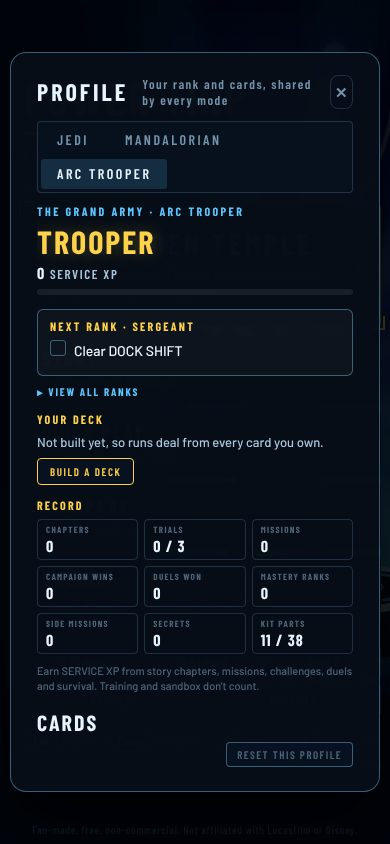
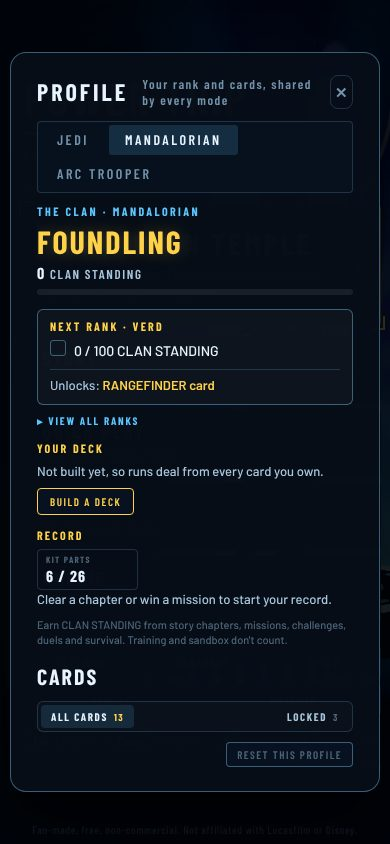
Profile: MY DECK / ALL CARDS / LOCKED filters, a leaner Force Tree, a record that hides its zeros [preview]
CARDS gets a filter row: MY DECK (with empty slots), ALL CARDS (what you own, plus a '+N LOCKED' link per
tier) and LOCKED (with what opens each). Tiers fold shut on a phone. The record shows only what's earned.
The trooper's next rank names the look it unlocks. The Force Tree drops the branch's everyday card list
(it's in CARDS) and keeps only the learnable cards, tier-tagged, with one footnote for the in-run picks.

Claude-Session: https://claude.ai/code/session_01GXE5t2dAsYaBkDm5B8t4Zq

Changed region(s): [[0.0923, 0.3697, 0.8923, 0.8934], [0.0923, 0.1232, 0.6154, 0.3389], [0.7385, 0.8318, 0.8308, 0.8626]]

diff --git a/src/ui/profile-ui.js b/src/ui/profile-ui.js
@@ -27,8 +27,11 @@ const panel = document.getElementById('profile');
 const btn = document.getElementById('pfBtn');
 const esc = (s) => String(s).replace(/[&<>"]/g, (c) => ({ '&': '&amp;', '<': '&lt;', '>': '&gt;', '"': '&quot;' }[c]));
 const HERO_NAME = { jedi: 'JEDI', mando: 'MANDALORIAN', trooper: 'ARC TROOPER' };
-let hero = 'jedi', armed = false, view = 'deck', ladderOpen = false;   // view: the right column's CARDS, or the Jedi's FORCE TREE
+let hero = 'jedi', armed = false, view = 'deck', ladderOpen = false, filter = null, shut = {};   // view: the right column's CARDS, or the Jedi's FORCE TREE
 const SET_OF = { jedi: SKILLS, mando: MANDO_SKILLS, trooper: TROOPER_SKILLS };
+// the trooper's story ranks open looks, not cards (game/wardrobe.js PROMOTIONS, data/ability-cards.js promote-*)
+const LOOK_OF_RANK = { trooper: { sergeant: 'Sergeant green marks', lieutenant: 'Lieutenant blue marks', captain: 'Captain helmet and pauldron',
+  commander: 'Commander yellow marks', arc: 'ARC kit and the ARC TROOPER name' } };
 
 // a chapter's title as this hero's story tells it
 function chapterName(id, h){
@@ -53,6 +56,8 @@ function opens(h, ri){
   const ins = T.insight ? (T.insight[ri] || 0) : 0;
   if (ins > 0) out.push('+' + ins + ' Insight');
   for (const s of RANK_SKILLS[h] || []) if (s.rank === R.id) out.push(esc(s.nm) + ' card');
+  const look = LOOK_OF_RANK[h] && LOOK_OF_RANK[h][R.id];
+  if (look) out.push(esc(look));
   return out.join(' · ');
 }
 function leftCol(h){
@@ -79,40 +84,42 @@ function leftCol(h){
     <span class="pf-link" data-ladder>${ladderOpen ? '▾ HIDE RANKS' : '▸ VIEW ALL RANKS'}</span>
     ${ladderOpen ? `<ol class="pf-ladder">${ladder}</ol>` : ''}
     <div class="pf-sec pf-deckbox"><h4>YOUR DECK</h4>${deckBox}</div>
-    <div class="pf-sec"><h4>RECORD</h4><div class="pf-rec">${rec.map(r => '<div><span>' + r[0] + '</span><b>' + r[1] + '</b></div>').join('')}</div></div>
+    ${recBox(rec)}
     <p class="pf-note pf-how">Earn ${esc(T.unit)} from story chapters, missions, challenges, duels and survival. Training and sandbox don't count.</p>
   </div>`;
 }
 
+// the RECORD shows what's been earned: zeros are hidden, and a new hero gets one line instead of a grid of them
+function recBox(rec){
+  const got = rec.filter(r => !/^0(\b| \/)/.test(String(r[1])));
+  const any = got.some(r => !/PARTS$/.test(r[0]));
+  return '<div class="pf-sec"><h4>RECORD</h4>' + (got.length ? '<div class="pf-rec">' + got.map(r => '<div><span>' + r[0] + '</span><b>' + r[1] + '</b></div>').join('') + '</div>' : '') +
+    (any ? '' : '<p class="pf-note">Clear a chapter or win a mission to start your record.</p>') + '</div>';
+}
+
 /* ---------- the right column, the Jedi's second tab: the Force Tree ---------- */
+// each branch: its line, the cards Insight can learn (with their tier), and one footnote for the in-run either/or picks.
+// The branch's everyday cards are in CARDS, so the tree no longer lists them.
 function treeCol(){
   const path = treePath(), left = insightLeft(), forks = profileOf('jedi').forks;
-  const forkLine = (f) => {
-    const took = forks[f.fork], nm = (id) => id ? ((JEDI_STORE.find(n => n.id === id) || {}).nm || (FORMS[id] ? FORMS[id].name : id)) : '';
-    return '<div class="pf-fork"><span>PICK ONE PER RUN</span><b>' + esc(f.nm) + '</b>' + (took ? '<em>Last run: ' + esc(nm(took)) + '</em>' : '') + '</div>';
-  };
+  const nm = (id) => id ? ((JEDI_STORE.find(n => n.id === id) || {}).nm || (FORMS[id] ? FORMS[id].name : id)) : '';
   const cols = BRANCHES.map(B => {
-    const tiers = [1, 2, 3].map(t => {
-      const core = SKILLS.filter(s => !s.prof && BRANCH[s.id] === B.id && s.tier === t);
-      const own = JEDI_TREE.filter(n => n.branch === B.id && n.tier === t);
-      const fk = FORK_BRANCH.filter(f => f.branch === B.id && f.tier === t);
-      if (!core.length && !own.length && !fk.length) return '';
-      return '<div class="pf-tier"><div class="pf-tn">' + TIER_NAME[t] + '</div>' +
-        core.map(s => '<div class="pf-core" title="' + esc(s.ds.replace(/&amp;/g, '&')) + '"><span class="pf-ic">' + icon(s.ico) + '</span>' + esc(s.nm) + '</div>').join('') +
-        own.map(n => {
-          const st = nodeState(n);
-          const act = st === 'learned' ? '<em class="pf-got">LEARNED</em>' : st === 'open' ? '<span class="btn pf-learn" data-learn="' + n.prof + '">LEARN · 1 INSIGHT</span>'
-            : st === 'rank' ? '<em class="pf-lock">UNLOCKS AT ' + esc(track('jedi').ranks.find(r => r.id === tierRank(t)).nm) + '</em>' : '<em class="pf-lock">NO INSIGHT LEFT</em>';
-          return '<div class="pf-node ' + st + '"><div class="pf-nh"><span class="pf-ic">' + icon(n.ico) + '</span><b>' + esc(n.nm) + '</b></div><p>' + n.ds + '</p>' + act + '</div>';
-        }).join('') + fk.map(forkLine).join('') + '</div>';
+    const own = JEDI_TREE.filter(n => n.branch === B.id).sort((x, y) => x.tier - y.tier);
+    const fk = FORK_BRANCH.filter(f => f.branch === B.id).sort((x, y) => x.tier - y.tier);
+    const nodes = own.map(n => {
+      const st = nodeState(n);
+      const act = st === 'learned' ? '<em class="pf-got">✓ LEARNED</em>' : st === 'open' ? '<span class="btn pf-learn" data-learn="' + n.prof + '">LEARN · 1 INSIGHT</span>'
+        : st === 'rank' ? '<em class="pf-lock">UNLOCKS AT ' + esc(track('jedi').ranks.find(r => r.id === tierRank(n.tier)).nm) + '</em>' : '<em class="pf-lock">NO INSIGHT LEFT</em>';
+      return '<div class="pf-node ' + st + '"><div class="pf-nh"><span class="pf-ic">' + icon(n.ico) + '</span><b>' + esc(n.nm) + '</b><span class="pf-tier-k">' + TIER_NAME[n.tier] + '</span></div><p>' + n.ds + '</p>' + act + '</div>';
     }).join('');
+    const forkNote = fk.length ? '<div class="pf-fork"><span>IN A RUN YOU ALSO PICK</span>' + fk.map(f => '<b>' + esc(f.nm) + (forks[f.fork] ? ' <em>(last: ' + esc(nm(forks[f.fork])) + ')</em>' : '') + '</b>').join('') + '</div>' : '';
     return '<div class="pf-branch' + (path === B.id ? ' path' : '') + '"><div class="pf-bh"><b>' + B.nm + '</b><span class="btn pf-path" data-path="' + B.id + '">' + (path === B.id ? '★ YOUR PATH' : 'SET AS PATH') + '</span></div>' +
-      '<p class="pf-bl">' + esc(B.line) + '</p>' + tiers + '</div>';
+      '<p class="pf-bl">' + esc(B.line) + '</p>' + nodes + forkNote + '</div>';
   }).join('');
   return `<div class="pf-col pf-right">
     ${viewTabs('jedi')}
     <div class="pf-th"><h3>FORCE TREE</h3><span class="pf-ins"><b>${left}</b> INSIGHT TO SPEND</span><span class="btn pf-reset" data-reset="tree">RESET TREE</span></div>
-    <p class="pf-note${runLive() ? ' pf-live-note' : ''}">${runLive() ? 'A run is on. Change your tree and path between runs.' : 'Spend Insight to learn new cards for your deck. Your path\'s branch always offers a card.'}</p>
+    <p class="pf-note${runLive() ? ' pf-live-note' : ''}">${runLive() ? 'A run is on. Change your tree and path between runs.' : 'Each rank gives Insight. Spend it to learn a card for your deck. Your path\'s branch always has a card on offer in runs.'}</p>
     <div class="pf-tree">${cols}</div>
   </div>`;
 }
@@ -127,32 +134,45 @@ function lockWhy(h, s){
   const R = track(h).ranks.find(r => r.id === s.rank);
   return 'UNLOCKS AT ' + (R ? R.nm : 'A HIGHER RANK');
 }
+// the CARDS view's filter: MY DECK (once there is one), ALL CARDS (the ones you own) or LOCKED (when each opens)
+function filterOf(h){
+  const deck = deckOf(h);
+  if (filter === 'deck' && !deck) return 'all';
+  return filter || (deck ? 'deck' : 'all');
+}
 function deckCol(h){
   const set = SET_OF[h];
   pruneDeck(h, set);
-  const deck = deckOf(h), live = runLive(), n = deck ? deck.length : 0;
-  const acts = live ? '' : deck
-    ? '<span class="btn" data-deckact="suggest">AUTO-PICK</span><span class="btn pf-reset" data-deckact="all">USE ALL CARDS</span>'
-    : '';   // no deck yet: BUILD A DECK is the overview's one button
+  const deck = deckOf(h), live = runLive(), n = deck ? deck.length : 0, f = filterOf(h);
+  const locked = set.filter(s => !owns(h, s)).length;
+  const chips = [deck && ['deck', 'MY DECK', n], ['all', 'ALL CARDS', set.length - locked], locked && ['locked', 'LOCKED', locked]].filter(Boolean);
+  const bar = '<div class="pf-filter">' + chips.map(c => '<span data-filter="' + c[0] + '"' + (f === c[0] ? ' class="on"' : '') + '>' + c[1] + '<i>' + c[2] + '</i></span>').join('') + '</div>';
+  const acts = live || !deck ? '' : '<span class="btn" data-deckact="suggest">AUTO-PICK</span><span class="btn pf-reset" data-deckact="all">USE ALL CARDS</span>';
   const note = live ? 'A run is on. Change your deck between runs.'
-    : deck ? 'Click a card to add or remove it. Each tier has a set number of slots.'
+    : f === 'locked' ? 'Cards you haven\'t earned yet, and what opens each one.'
+    : f === 'deck' ? 'Runs deal from these. Pick ALL CARDS to swap some in.'
+    : deck ? 'Click a card to add it to your deck or take it out.'
     : 'Every card your runs can offer. BUILD A DECK to pick the ones you want.';
-  const order = (s) => !owns(h, s) ? 2 : deck && deck.includes(s.id) ? 0 : 1;
   const cols = [1, 2, 3].map(t => {
-    const cards = set.filter(s => s.tier === t).map((s, i) => [s, i]).sort((a, b) => order(a[0]) - order(b[0]) || a[1] - b[1]).map(x => x[0]);
-    const k = deck ? deckCount(h, set, t) : 0, full = k >= DECK_QUOTA[t];
-    return '<div class="pf-branch pf-dtier"><div class="pf-bh"><b>' + TIER_NAME[t] + '</b>' + (deck ? '<span class="pf-ins"><b>' + k + '</b> / ' + DECK_QUOTA[t] + ' SLOTS</span>' : '') + '</div>' +
-      cards.map(s => {
-        const mine = owns(h, s), inD = deck && deck.includes(s.id);
-        const st = !mine ? 'rank' : !deck ? 'all' : inD ? 'learned' : full ? 'insight' : 'open';
-        const tag = !mine ? '<em class="pf-lock">' + esc(lockWhy(h, s)) + '</em>' : inD ? '<em class="pf-got">✓ IN YOUR DECK</em>' : deck && full ? '<em class="pf-lock">TIER FULL</em>' : '';
-        const click = mine && deck && !live && (inD || !full) ? ' data-deck="' + s.id + '"' : '';
-        return '<div class="pf-node pf-dcard ' + st + (click ? ' pick' : '') + '"' + click + '><div class="pf-nh"><span class="pf-ic">' + icon(s.ico) + '</span><b>' + esc(s.nm) + '</b></div><p>' + s.ds + '</p>' + tag + '</div>';
-      }).join('') + '</div>';
+    const all = set.filter(s => s.tier === t), k = deck ? deckCount(h, set, t) : 0, full = k >= DECK_QUOTA[t];
+    const cards = all.filter(s => f === 'locked' ? !owns(h, s) : f === 'deck' ? deck.includes(s.id) : owns(h, s));
+    const hidden = f === 'all' ? all.filter(s => !owns(h, s)).length : 0;
+    const body = cards.map(s => {
+      const mine = owns(h, s), inD = deck && deck.includes(s.id);
+      const st = !mine ? 'rank' : !deck ? 'all' : inD ? 'learned' : full ? 'insight' : 'open';
+      const tag = !mine ? '<em class="pf-lock">' + esc(lockWhy(h, s)) + '</em>' : inD ? '<em class="pf-got">✓ IN YOUR DECK</em>' : deck && full ? '<em class="pf-lock">TIER FULL</em>' : '';
+      const click = mine && deck && !live && (inD || !full) ? ' data-deck="' + s.id + '"' : '';
+      return '<div class="pf-node pf-dcard ' + st + (click ? ' pick' : '') + '"' + click + '><div class="pf-nh"><span class="pf-ic">' + icon(s.ico) + '</span><b>' + esc(s.nm) + '</b></div><p>' + s.ds + '</p>' + tag + '</div>';
+    }).join('')
+      + (f === 'deck' ? Array.from({ length: Math.max(0, DECK_QUOTA[t] - k) }, () => '<div class="pf-slot" data-filter="all">+ EMPTY SLOT</div>').join('') : '')
+      + (!cards.length && f !== 'deck' ? '<p class="pf-empty">' + (f === 'locked' ? 'Nothing locked here.' : 'Nothing yet.') + '</p>' : '')
+      + (hidden ? '<div class="pf-more" data-filter="locked">+ ' + hidden + ' LOCKED</div>' : '');
+    const head = '<div class="pf-bh" data-shut="' + t + '"><b>' + TIER_NAME[t] + '</b>' + (deck ? '<span class="pf-ins"><b>' + k + '</b> / ' + DECK_QUOTA[t] + ' SLOTS</span>' : '<span class="pf-ins">' + cards.length + '</span>') + '<i class="pf-caret">▾</i></div>';
+    return '<div class="pf-branch pf-dtier' + (shut[t] ? ' shut' : '') + '">' + head + '<div class="pf-tbody">' + body + '</div></div>';
   }).join('');
   return `<div class="pf-col pf-right">
     ${viewTabs(h)}
-    <div class="pf-th"><h3>CARDS</h3>${deck ? `<span class="pf-ins"><b>${n}</b> / ${DECK_SIZE} IN YOUR DECK</span>` : ''}${acts}</div>
+    <div class="pf-th"><h3>CARDS</h3>${bar}${acts}</div>
     <p class="pf-note${live ? ' pf-live-note' : ''}">${note}</p>
     <div class="pf-tree">${cols}</div>
   </div>`;
@@ -182,11 +202,14 @@ panel.addEventListener('click', (e) => {
   const vt = t.closest('[data-view]'), dk = t.closest('[data-deck]'), da = t.closest('[data-deckact]');
   if (vt){ view = vt.dataset.view; return render(); }
   if (t.closest('[data-ladder]')){ ladderOpen = !ladderOpen; return render(); }
+  const fl = t.closest('[data-filter]'), sh = t.closest('[data-shut]');
+  if (fl){ filter = fl.dataset.filter; view = 'deck'; return render(); }
+  if (sh){ shut[sh.dataset.shut] = !shut[sh.dataset.shut]; return render(); }
   if (dk){ if (toggleDeck(hero, SET_OF[hero], dk.dataset.deck)) S.reward(1); return render(); }
-  if (da){ setDeck(hero, da.dataset.deckact === 'all' ? null : suggestDeck(hero, SET_OF[hero])); view = 'deck'; return render(); }
+  if (da){ setDeck(hero, da.dataset.deckact === 'all' ? null : suggestDeck(hero, SET_OF[hero])); filter = null; view = 'deck'; return render(); }
   const tab = t.closest('[data-h]'), learn = t.closest('[data-learn]'), path = t.closest('[data-path]'), reset = t.closest('[data-reset]');
   if (t.closest('#pfclose') || t === panel) return setProfile(false);
-  if (tab){ hero = tab.dataset.h; armed = false; if (hero !== 'jedi') view = 'deck'; render(); }
+  if (tab){ hero = tab.dataset.h; armed = false; filter = null; if (hero !== 'jedi') view = 'deck'; render(); }
   else if (learn){ if (learnNode(learn.dataset.learn)) S.reward(1); render(); }
   else if (path){ setPath(path.dataset.path); render(); }
   else if (reset && reset.dataset.reset === 'tree'){ resetTree(); render(); }

diff --git a/styles/profile.css b/styles/profile.css
@@ -125,3 +125,24 @@
 .pf-left .btn{padding:7px 12px;font-size:11px;letter-spacing:1.6px}
 .pf-left .pf-build{margin-left:0}
 .pf-how{margin-top:10px;font-size:11px;line-height:1.35;color:var(--ink-faint)}
+/* CARDS' filter row: MY DECK · ALL CARDS · LOCKED, each with its count */
+.pf-filter{display:flex;gap:4px;padding:3px;border:1px solid var(--edge);border-radius:var(--r-lg);background:rgba(255,255,255,.02)}
+.pf-filter span{display:flex;align-items:center;gap:6px;padding:6px 10px;border-radius:var(--r);font:700 11px/1 var(--font-ui);letter-spacing:1.6px;color:var(--ink-soft);cursor:pointer}
+.pf-filter span:hover{color:var(--ink)}
+.pf-filter span.on{background:rgba(92,198,255,.14);color:var(--ink)}
+.pf-filter i{font-style:normal;font-size:10px;color:var(--ink-faint)}
+.pf-filter span.on i{color:var(--gold)}
+.pf-tbody{display:flex;flex-direction:column;gap:8px}
+.pf-slot,.pf-more{padding:10px;border:1px dashed var(--edge-mid);border-radius:var(--r);font:700 10px/1 var(--font-ui);letter-spacing:1.6px;color:var(--ink-faint);text-align:center;cursor:pointer}
+.pf-slot:hover,.pf-more:hover{color:var(--ink);border-color:var(--edge-lit)}
+.pf-more{border-style:none;padding:4px;text-align:left}
+.pf-empty{margin:0;font:500 12px/1.3 var(--font-body);color:var(--ink-faint)}
+.pf-caret{display:none;font-style:normal;color:var(--ink-faint)}
+/* a phone: each tier folds shut with a tap on its name */
+@media (max-width:760px){
+  .pf-dtier .pf-bh{cursor:pointer}
+  .pf-caret{display:inline}
+  .pf-dtier.shut .pf-tbody{display:none}
+  .pf-dtier.shut .pf-caret{transform:rotate(-90deg)}
+  .pf-th .pf-filter{order:5;flex-basis:100%;justify-content:space-between}
+}
